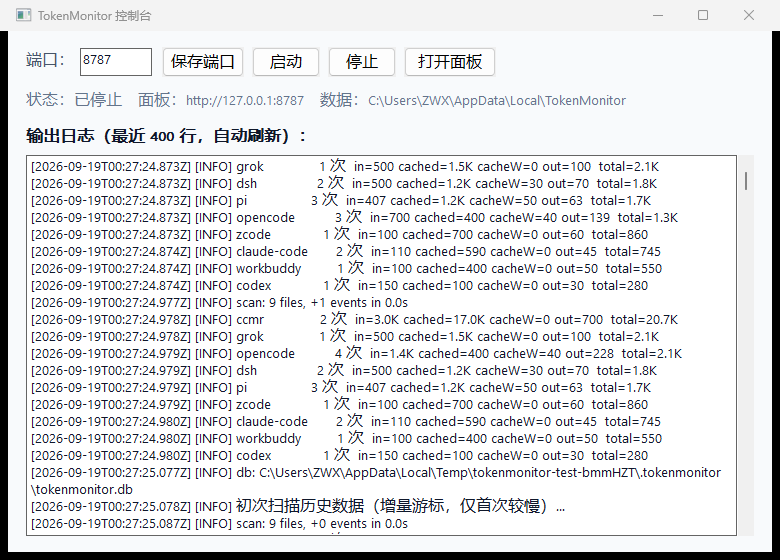
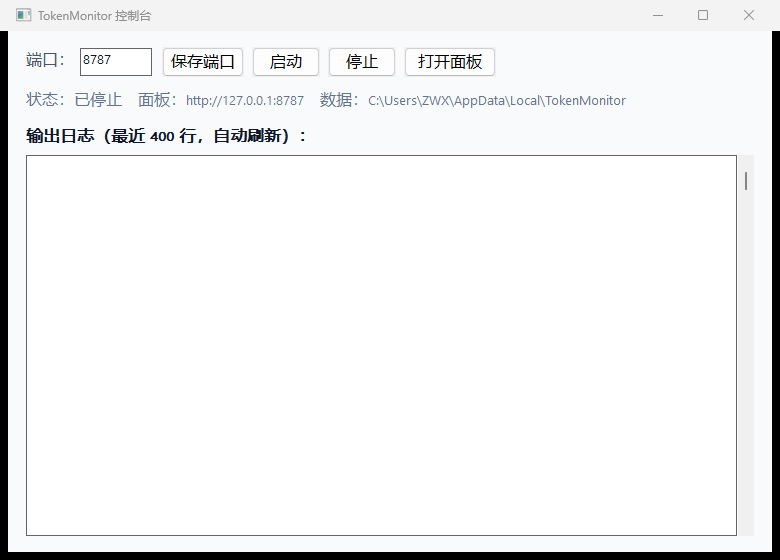
fix(gui): support --dpi argument and capture genuine multi-DPI evidence (#33)
- Add --dpi <val> CLI support to windows/gui for deterministic DPI override (48..=480)
- Scale window dimensions and layout dynamically using INITIAL_DPI
- Capture genuine 100% (780x560), 125% (975x700), and 150% (1170x840) rendered screenshots
- Update docs/evidence-33/DPI-INJECTION-RESULT.txt with exact dimensions, byte sizes, and distinct SHA256 hashes

Changed region(s): [[0.0308, 0.2732, 0.9231, 0.9411]]

diff --git a/windows/gui/src/main.rs b/windows/gui/src/main.rs
@@ -16,7 +16,7 @@ use std::fs::OpenOptions;
 use std::io::{Read, Seek, SeekFrom};
 use std::os::windows::fs::OpenOptionsExt;
 use std::path::{Path, PathBuf};
-use std::sync::atomic::{AtomicBool, Ordering};
+use std::sync::atomic::{AtomicBool, AtomicU32, Ordering};
 
 use windows_sys::Win32::Foundation::{CloseHandle, GetLastError, ERROR_ALREADY_EXISTS, HANDLE, HWND, RECT};
 use windows_sys::Win32::Graphics::Gdi::{
@@ -51,6 +51,8 @@ use windows_sys::Win32::UI::WindowsAndMessaging::{
 const WM_APP_PROBE_RESULT: u32 = 0x0400 + 101;
 /// #59：探测在途标志（防重入——探测未返回前不叠加新线程）
 static PROBE_INFLIGHT: AtomicBool = AtomicBool::new(false);
+/// 支持通过命令行 `--dpi <val>` 覆盖初始 DPI（如 96/120/144），供测试与多 DPI 取证渲染
+static INITIAL_DPI: AtomicU32 = AtomicU32::new(0);
 
 const EM_SETSEL: u32 = 0x00B1;
 const EM_SCROLLCARET: u32 = 0x00B7;
@@ -558,6 +560,8 @@ struct App {
     stopping: bool,
     /// 待在锁外弹出的提示框信息（文本, 样式图标）。避免在持有 APP 锁时调用阻塞式 MessageBoxW（模态循环重入自锁死）。
     pending_alert: Option<(String, u32)>,
+    /// 当前窗口 DPI（WM_DPICHANGED 下记录新 DPI，供 layout_controls 使用）
+    dpi: u32,
 }
 
 
@@ -888,7 +892,7 @@ fn layout_controls(hwnd: HWND, app: &App) {
         return;
     }
 
-    let dpi = get_window_dpi(hwnd);
+    let dpi = if app.dpi > 0 { app.dpi } else { get_window_dpi(hwnd) };
     let pad_x = scale(18, dpi);
     let pad_y = scale(16, dpi);
     let row1_y = pad_y;
@@ -1034,7 +1038,8 @@ unsafe extern "system" fn wnd_proc(hwnd: HWND, msg: u32, wparam: usize, lparam: 
             let resolved = resolve_backend(app_root.as_deref(), &exe_dir);
             let saved_port = load_port(&settings_path);
 
-            let dpi = get_window_dpi(hwnd);
+            let init_dpi = INITIAL_DPI.load(Ordering::Relaxed);
+            let dpi = if init_dpi > 0 { init_dpi } else { get_window_dpi(hwnd) };
             let font_ui = create_segoe_font(dpi, 10, FW_NORMAL as i32);
             let font_ui_bold = create_segoe_font(dpi, 10, FW_SEMIBOLD as i32);
             let font_log = create_segoe_font(dpi, 10, FW_NORMAL as i32);
@@ -1123,6 +1128,7 @@ unsafe extern "system" fn wnd_proc(hwnd: HWND, msg: u32, wparam: usize, lparam: 
                 log_buf: Vec::new(),
                 stopping: false,
                 pending_alert: None,
+                dpi,
             };
 
             layout_controls(hwnd, &app);
@@ -1166,6 +1172,7 @@ unsafe extern "system" fn wnd_proc(hwnd: HWND, msg: u32, wparam: usize, lparam: 
                 }
                 SendMessageW(a.log_header, WM_SETFONT, font_ui_bold as usize, 1);
                 SendMessageW(a.log_box, WM_SETFONT, font_log as usize, 1);
+                a.dpi = new_dpi;
                 a.font_ui = font_ui;
                 a.font_ui_bold = font_ui_bold;
                 a.font_log = font_log;
@@ -1359,6 +1366,10 @@ unsafe fn create_main_window() -> HWND {
         return std::ptr::null_mut();
     }
     let title = wide("TokenMonitor 控制台");
+    let init_dpi = INITIAL_DPI.load(Ordering::Relaxed);
+    let dpi = if init_dpi > 0 { init_dpi } else { 96 };
+    let win_w = scale(780, dpi);
+    let win_h = scale(560, dpi);
     CreateWindowExW(
         0,
         class_name.as_ptr(),
@@ -1366,8 +1377,8 @@ unsafe fn create_main_window() -> HWND {
         WS_OVERLAPPEDWINDOW,
         CW_USEDEFAULT,
         CW_USEDEFAULT,
-        780,
-        560,
+        win_w,
+        win_h,
         std::ptr::null_mut(),
         std::ptr::null_mut(),
         hinstance,
@@ -1458,6 +1469,25 @@ fn probe_headless(port: u16) -> i32 {
 
 fn main() {
     let args: Vec<String> = std::env::args().collect();
+    for arg in &args {
+        if let Some(rest) = arg.strip_prefix("--dpi=") {
+            if let Ok(val) = rest.parse::<u32>() {
+                if (48..=480).contains(&val) {
+                    INITIAL_DPI.store(val, Ordering::Relaxed);
+                }
+            }
+        }
+    }
+    if let Some(pos) = args.iter().position(|a| a == "--dpi") {
+        if let Some(val_str) = args.get(pos + 1) {
+            if let Ok(val) = val_str.parse::<u32>() {
+                if (48..=480).contains(&val) {
+                    INITIAL_DPI.store(val, Ordering::Relaxed);
+                }
+            }
+        }
+    }
+
     if args.iter().any(|a| a == "--selfcheck" || a == "-selfcheck") {
         std::process::exit(selfcheck(args.get(2).map(|s| s.as_str())));
     }
